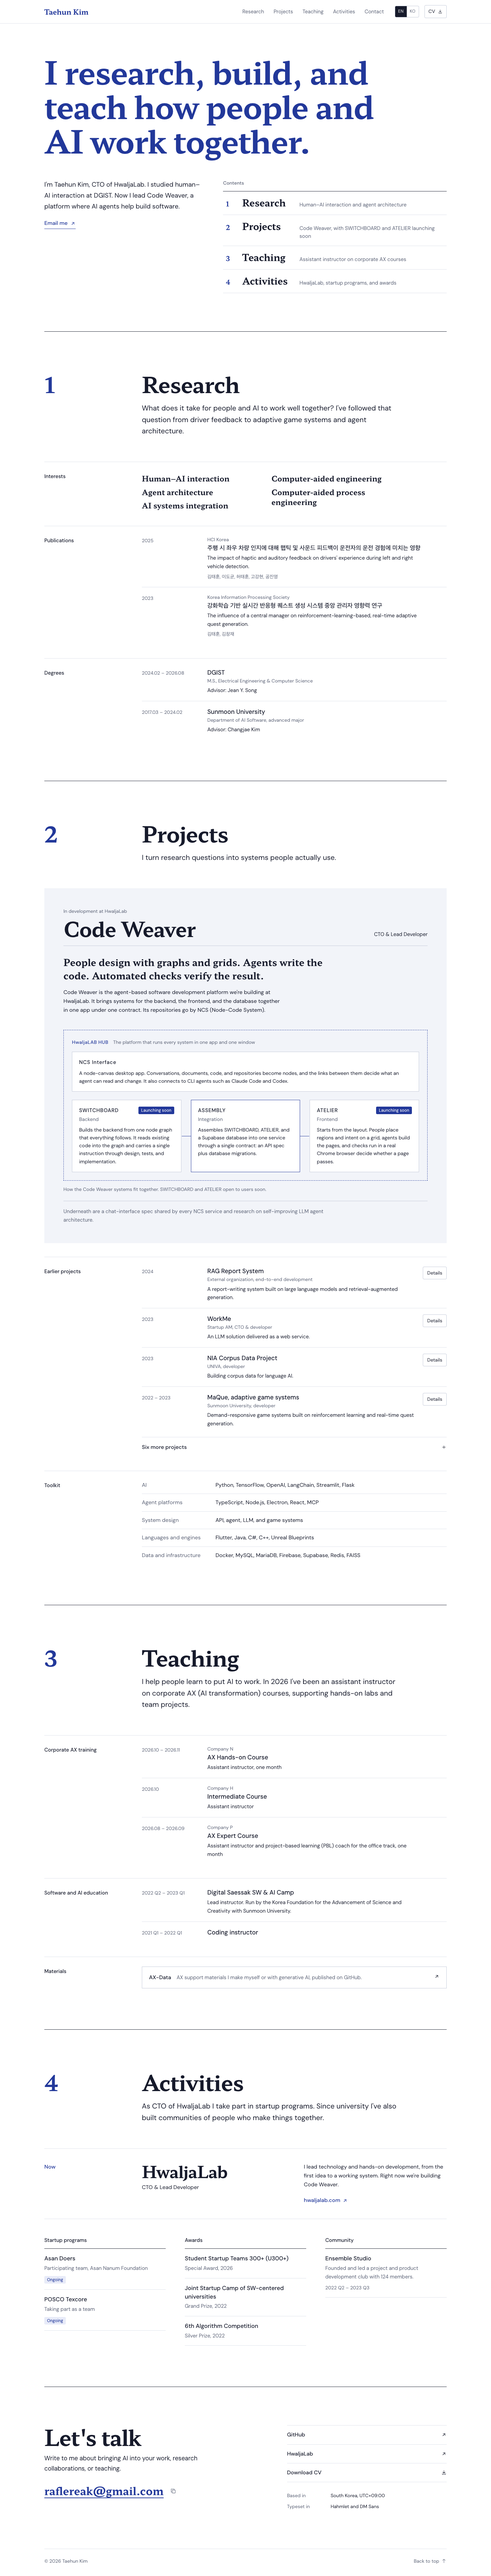
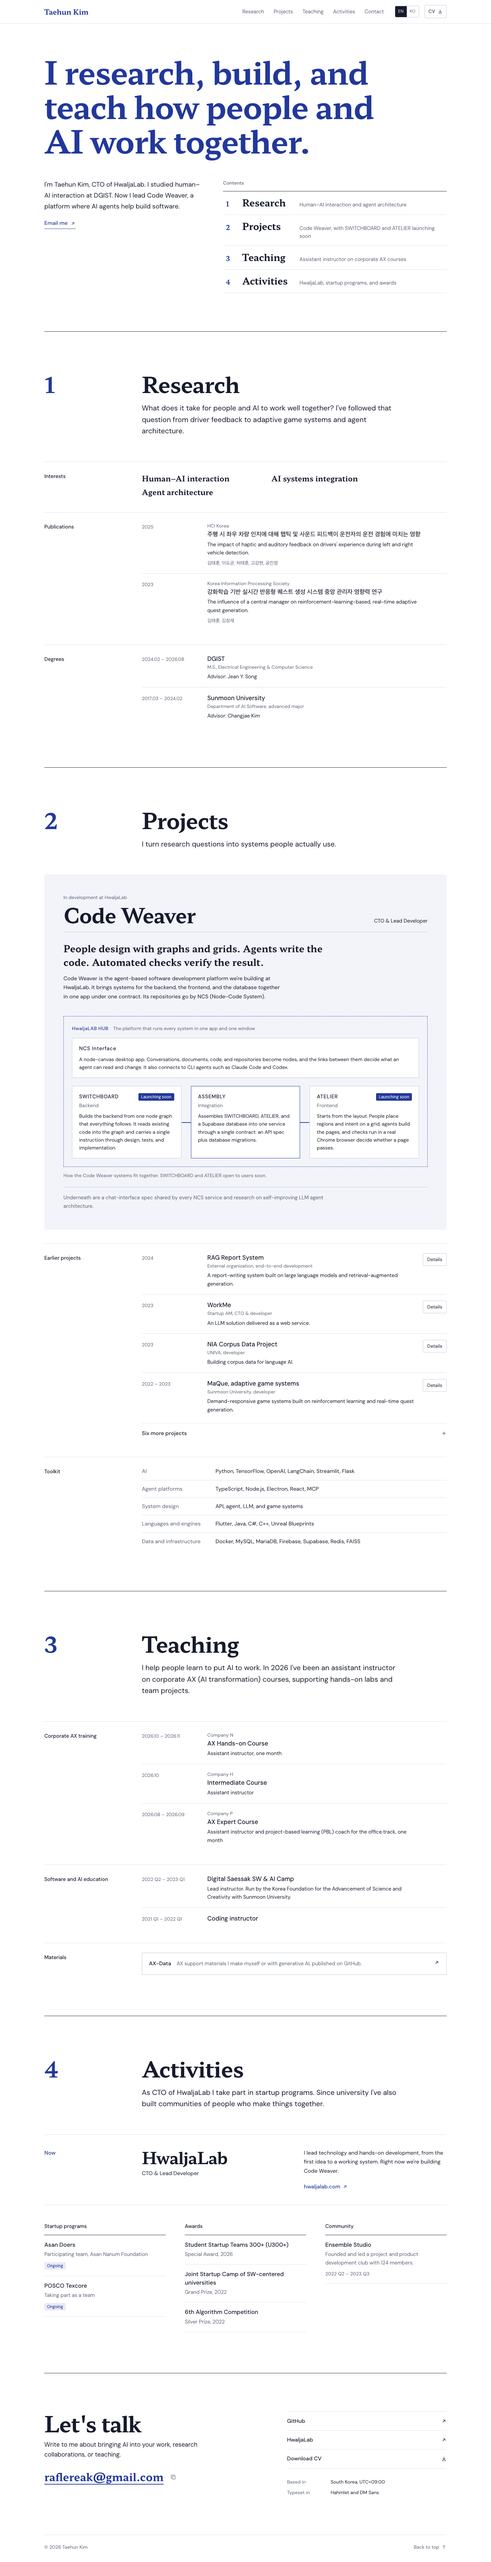
Remove the CAE and CAPE research interests
Taehun has not worked in computer-aided engineering or computer-aided
process engineering. Re-capture the five previews that show the
research section.

diff --git a/index.html b/index.html
@@ -79,8 +79,6 @@
             <li data-en="Human–AI interaction" data-ko="인간-AI 상호작용">Human–AI interaction</li>
             <li data-en="Agent architecture" data-ko="에이전트 아키텍처">Agent architecture</li>
             <li data-en="AI systems integration" data-ko="AI 시스템 통합">AI systems integration</li>
-            <li data-en="Computer-aided engineering" data-ko="컴퓨터 지원 공학(CAE)">Computer-aided engineering</li>
-            <li data-en="Computer-aided process engineering" data-ko="컴퓨터 지원 공정 공학(CAPE)">Computer-aided process engineering</li>
           </ul>
         </div>
 
